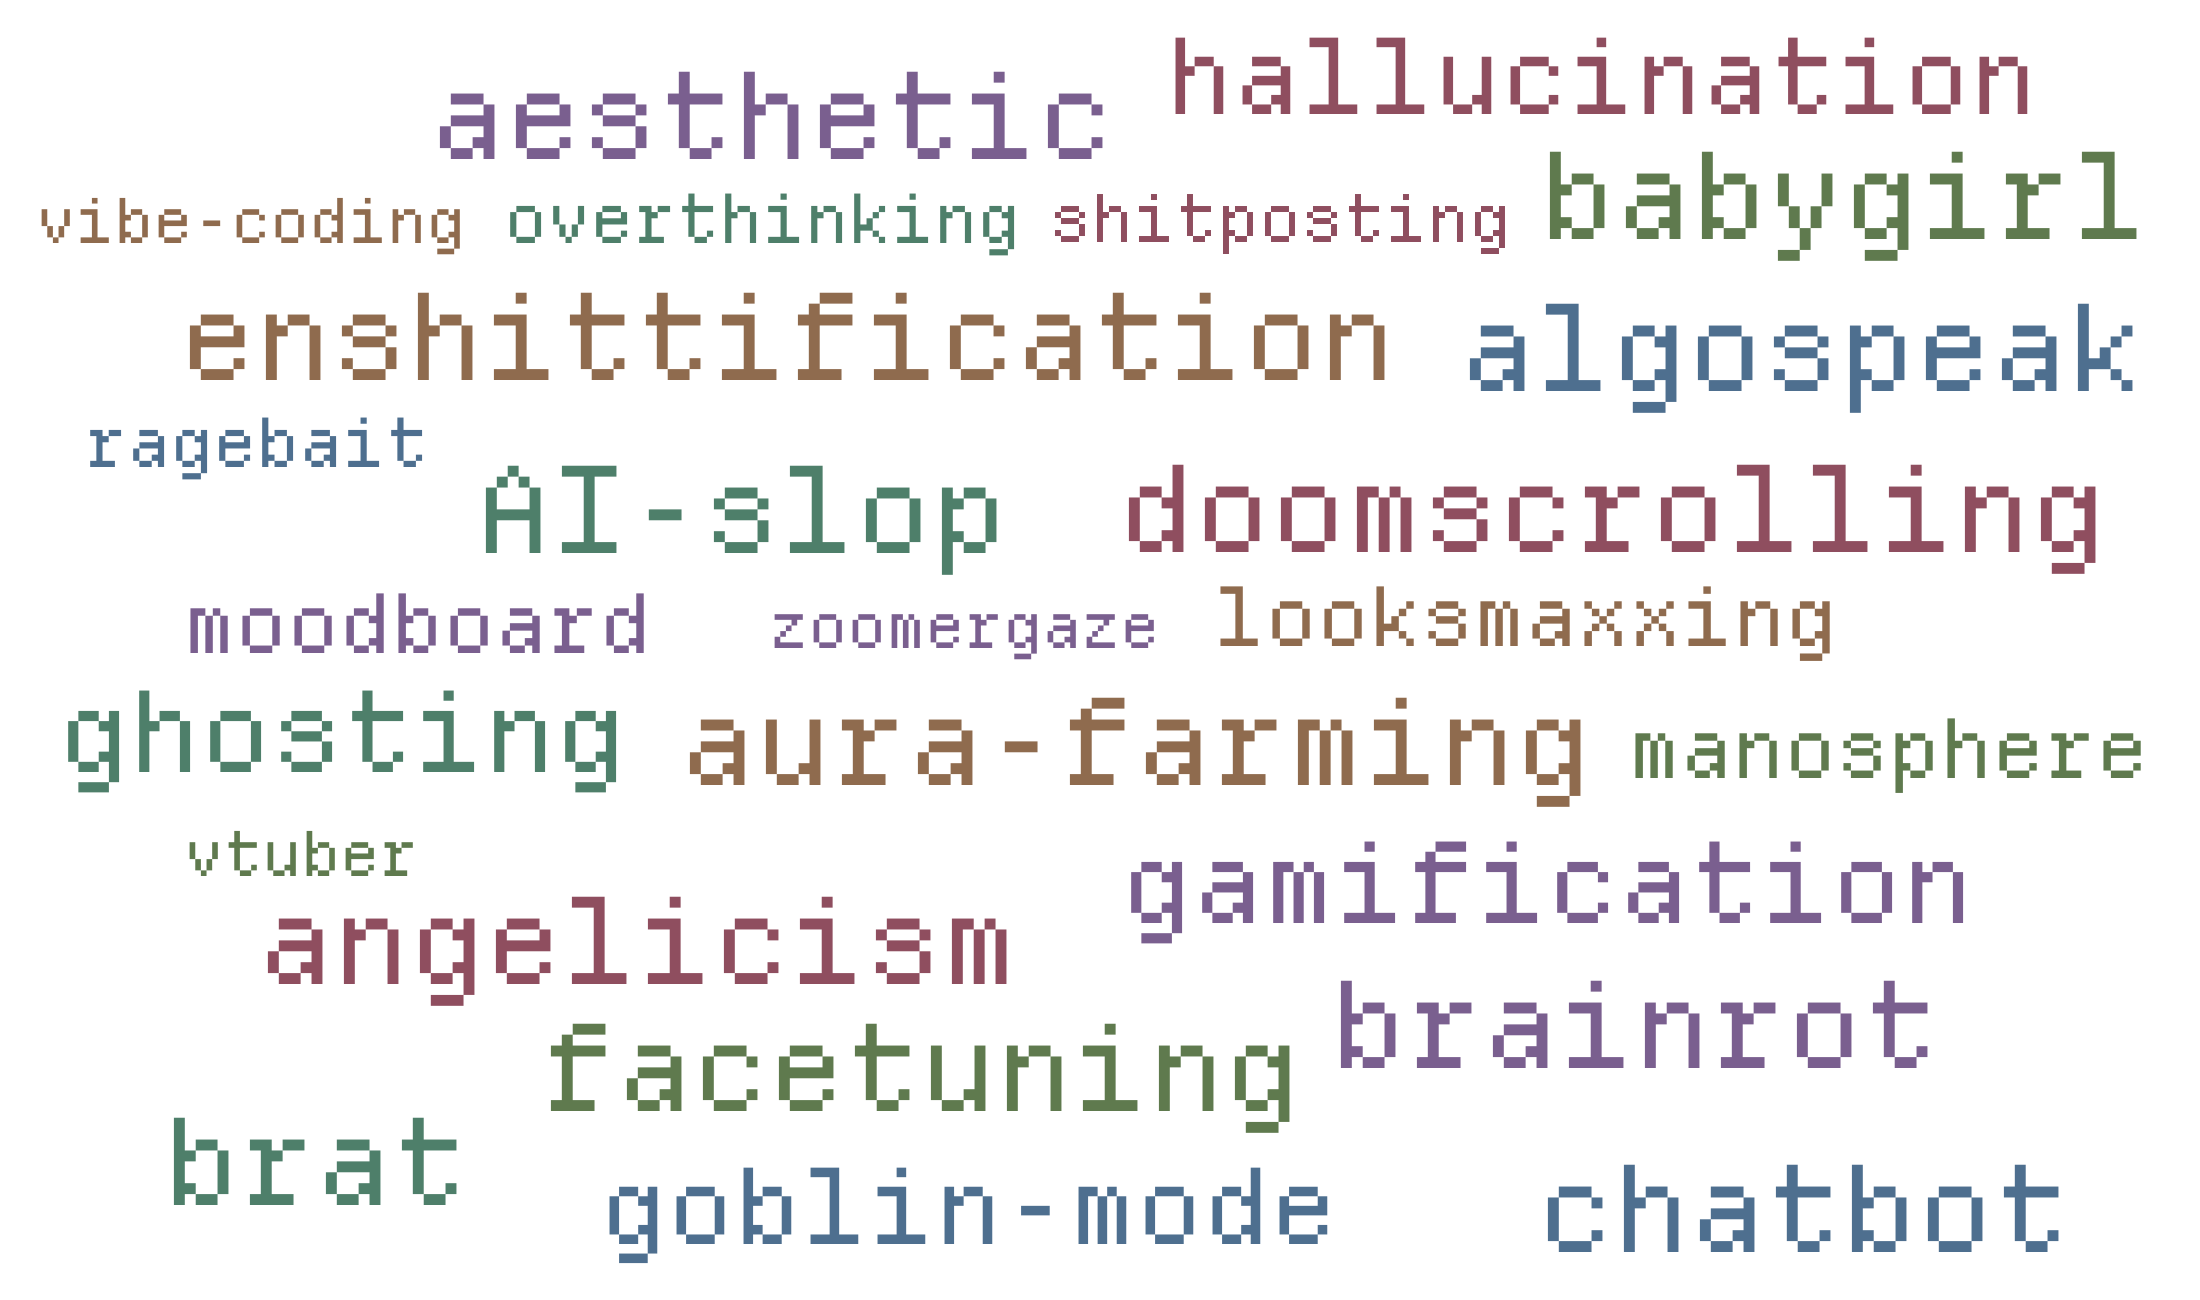
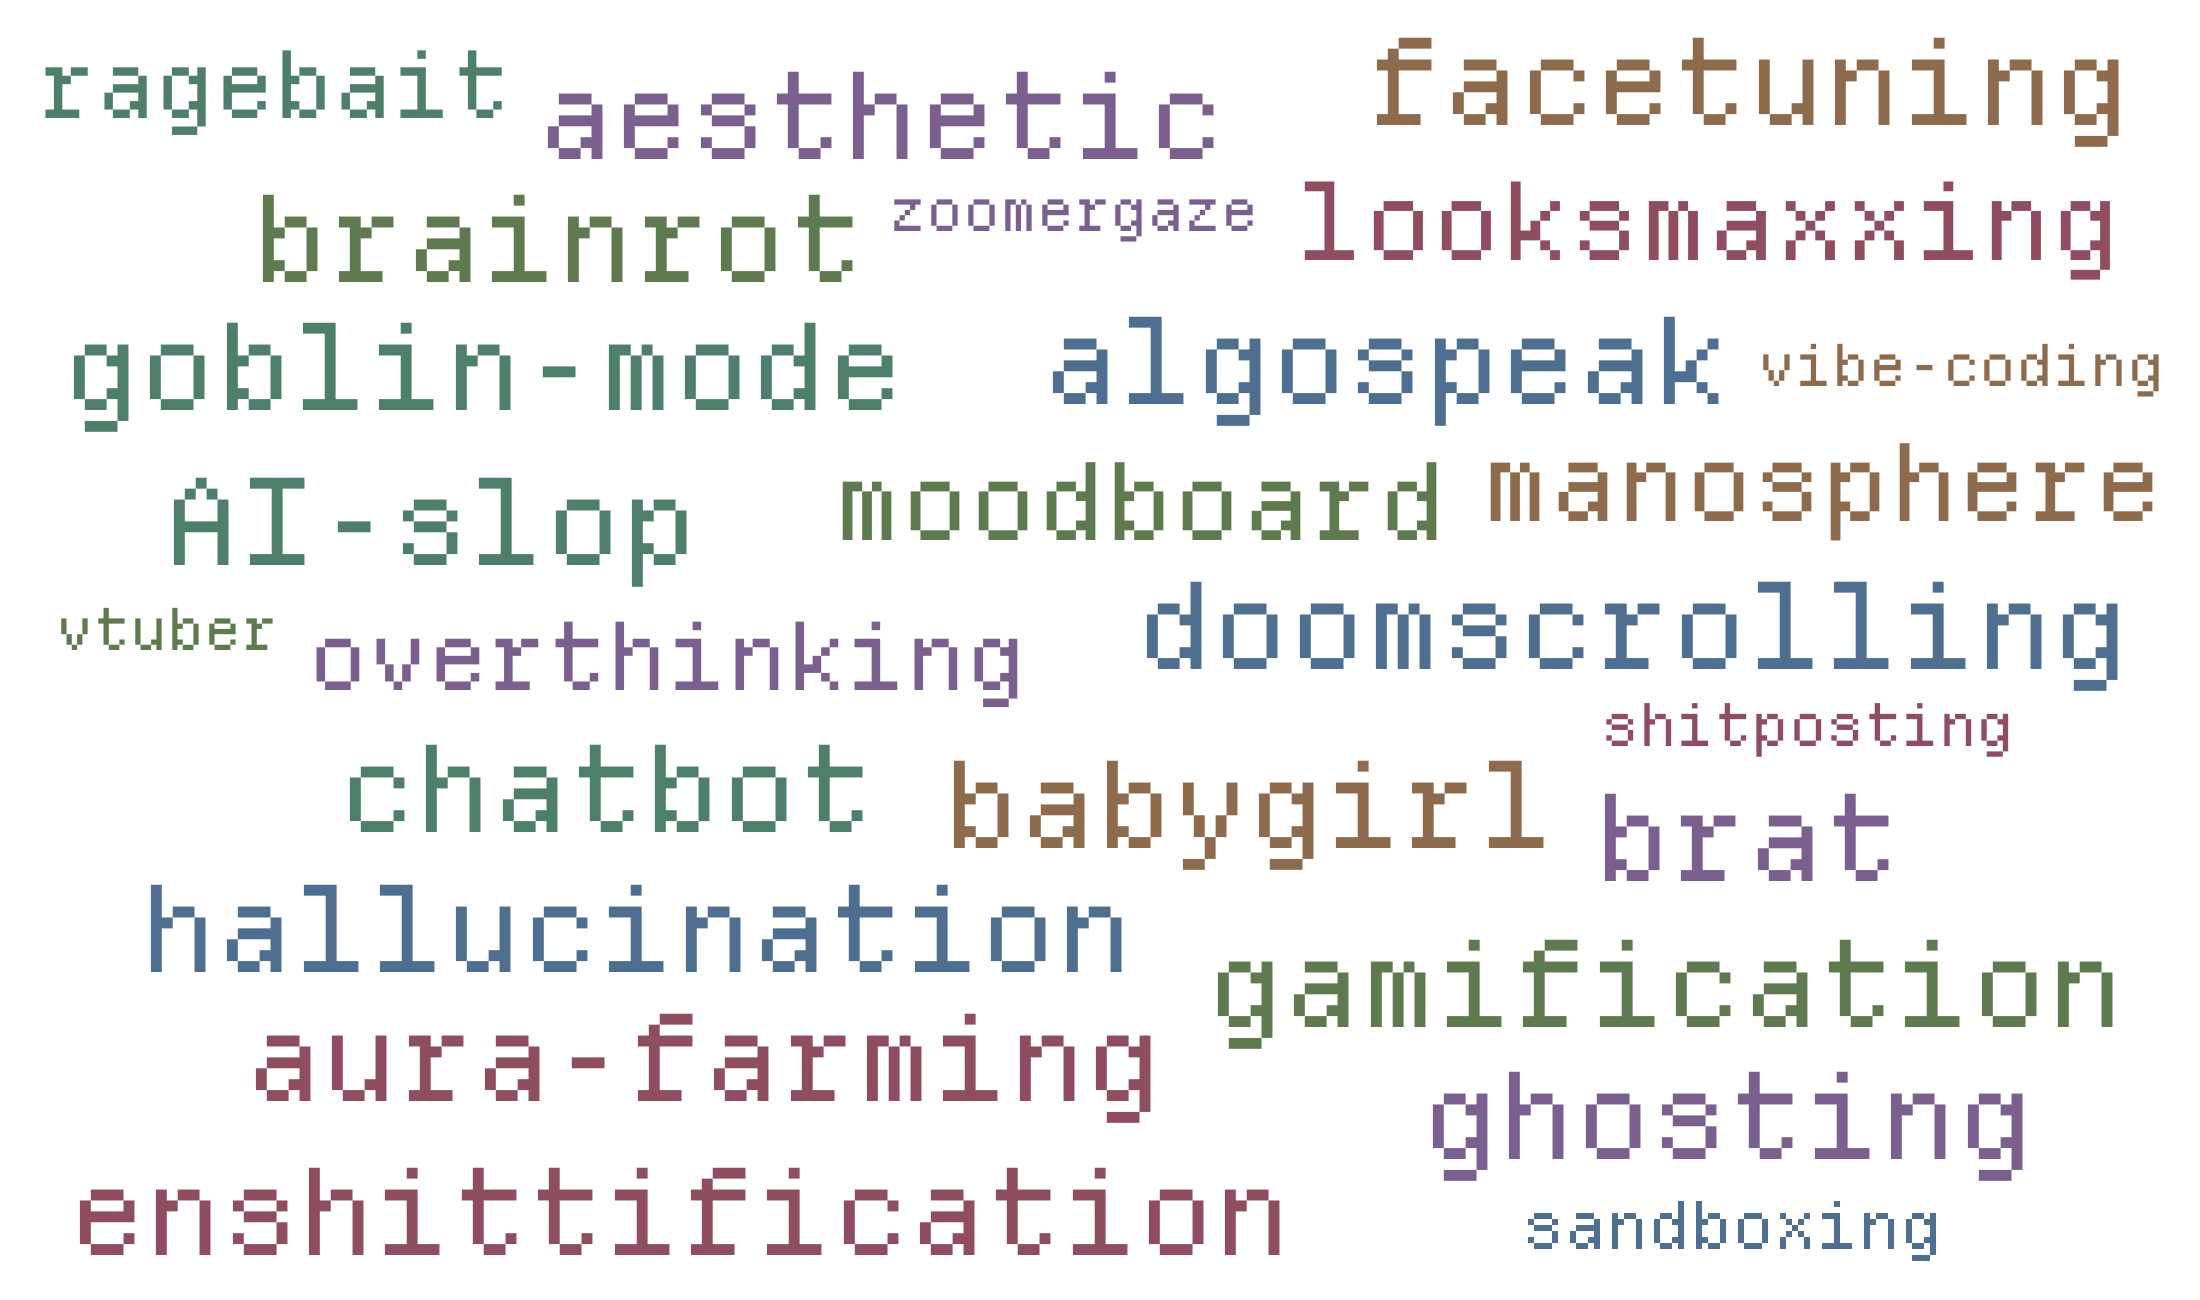
content: swap angelicism for sandboxing and regenerate the wordcloud
The term list and the image have to move together or the page shows words that
are no longer in the list.

Changed region(s): [[0.0, 0.0308, 0.9891, 0.9846]]

diff --git a/content/keywords.md b/content/keywords.md
@@ -8,7 +8,6 @@ date: 2 September 2026
 - aesthetic
 - AI-slop
 - algospeak
-- angelicism
 - aura-farming
 - babygirl
 - brainrot
@@ -26,6 +25,7 @@ date: 2 September 2026
 - moodboard
 - overthinking
 - ragebait
+- sandboxing
 - shitposting
 - vibe-coding
 - vtuber
